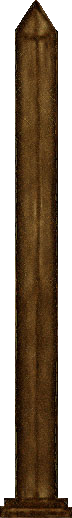
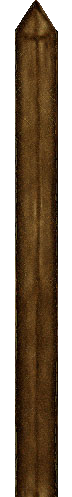
Hud bars no longer moves down.

diff --git a/src/game/utils/hud.cc b/src/game/utils/hud.cc
@@ -1,9 +1,11 @@
 #include "hud.h"
 #include "../../framework/vector2D.h"
 #include "../../framework/sprite.h"
+#include "../../framework/text.h"
 #include "../../framework/engine.h"
 #include "../../framework/animation.h"
 #include "../../framework/videomanager.h"
+#include "../../framework/modifier.h"
 #include "../scenes/world.h"
 #include "../utils/hudimagefactory.h"
 #include "constants.h"
@@ -49,9 +51,6 @@ Hud::Hud(World* world) {
     Image* number = VIDEO_MANAGER()->LoadImage("data/images/numbers2.png");
     number->set_frame_size(Vector2D(NUMBER_WIDTH, NUMBER_HEIGHT));
 
-    Image* life_bar_image_;
-    Image* mana_bar_image_;
-    Image* totem_image_;
     Image* back_image;
     Image* eye_image;
      
@@ -59,19 +58,14 @@ Hud::Hud(World* world) {
     //Criando sprites da life bar
     HudImageFactory img_fac;
 
-    life_bar_image_ = img_fac.LifeBarImage();
-    life_bar_ = new Sprite;
-    life_bar_->Initialize(life_bar_image_);
-    life_bar_->set_hotspot(Vector2D(LIFE_BAR_WIDTH/2, LIFE_BAR_HEIGHT));
-    life_bar_->set_position(Vector2D(VIDEO_X - LIFE_BAR_OFFSET_X, VIDEO_Y - LIFE_BAR_OFFSET_Y));
+    life_bar_ = new Sprite(life_modifier_ = new Modifier);
+    life_bar_->Initialize(img_fac.LifeBarImage());
+    life_bar_->set_position(VIDEO_X - LIFE_BAR_OFFSET_X - LIFE_BAR_WIDTH/2, VIDEO_Y - LIFE_BAR_OFFSET_Y);
     AddSprite(life_bar_);
     
-    
-    mana_bar_image_ = img_fac.ManaBarImage();
-    mana_bar_ = new Sprite;
-    mana_bar_->Initialize(mana_bar_image_);
-    mana_bar_->set_hotspot(Vector2D(MANA_BAR_WIDTH/2, MANA_BAR_HEIGHT));
-    mana_bar_->set_position(Vector2D(MANA_BAR_OFFSET_X , VIDEO_Y - MANA_BAR_OFFSET_Y));
+    mana_bar_ = new Sprite(mana_modifier_ = new Modifier);
+    mana_bar_->Initialize(img_fac.ManaBarImage());
+    mana_bar_->set_position(MANA_BAR_OFFSET_X - MANA_BAR_WIDTH/2, VIDEO_Y - MANA_BAR_OFFSET_Y);
     AddSprite(mana_bar_);
 
     back_image = img_fac.BackImage();
@@ -105,16 +99,32 @@ Hud::Hud(World* world) {
     AddSprite(eye);
     AddSprite(mummy_counter);
 
-    totem_image_ = img_fac.TotemImage();
-    for (int i = 0; i < 2; i++) {
-        totem_[i] = new Sprite;
-        totem_[i]->Initialize(totem_image_);
-        totem_[i]->set_hotspot(Vector2D(TOTEM_WIDTH/2, TOTEM_HEIGHT));
-        if (i == 0) totem_[i]->set_position(Vector2D(TOTEM_OFFSET_X , VIDEO_Y - TOTEM_OFFSET_Y));
-        if (i == 1) totem_[i]->set_position(Vector2D(VIDEO_X - TOTEM_OFFSET_X , VIDEO_Y - TOTEM_OFFSET_Y));
-        totem_[i]->set_zindex(-1.0f);
-        AddSprite(totem_[i]);
-    }
+    Image* totem_image_ = img_fac.TotemImage(),
+        *totem_bottom_image_ = img_fac.TotemBottomImage();
+
+    if(totem_image_ && totem_bottom_image_)
+        for (int i = 0; i < 2; i++) {
+            Sprite *totem = new Sprite;
+            totem->Initialize(totem_image_);
+            totem->set_hotspot(totem_image_->width() * 0.5f, totem_image_->height() + 0.0f);
+
+            Sprite *totem_bottom = new Sprite;
+            totem_bottom->Initialize(totem_bottom_image_);
+            totem_bottom->set_hotspot(totem_bottom_image_->width() * 0.5f, totem_bottom_image_->height());
+
+            if (i == 0) {
+                totem->set_position(TOTEM_OFFSET_X , VIDEO_Y - TOTEM_OFFSET_Y - totem_bottom_image_->height());
+                totem_bottom->set_position(TOTEM_OFFSET_X, VIDEO_Y - TOTEM_OFFSET_Y);
+            }
+            if (i == 1) {
+                totem->set_position(VIDEO_X - TOTEM_OFFSET_X , VIDEO_Y - TOTEM_OFFSET_Y - totem_bottom_image_->height());
+                totem_bottom->set_position(VIDEO_X - TOTEM_OFFSET_X, VIDEO_Y - TOTEM_OFFSET_Y);
+            }
+            totem->set_zindex(-1.0f);
+            totem_bottom->set_zindex(1.0f);
+            AddSprite(totem);
+            AddSprite(totem_bottom);
+        }
 
     for(int i = 0; i < 3; ++i) {
         enemy_counter_[i] = new Sprite;
@@ -178,25 +188,15 @@ void Hud::Update(float delta_t) {
     }
 
     if(world->hero() != NULL) {
+        // Update the Selected weapon icon
         if(world->hero()->secondary_weapon() != NULL)
             weapon_icon_ = world->hero()->secondary_weapon()->icon();
 
-        if (world->hero()->life() > 0) {
-            life_bar_->set_visible(true);
-            float new_height = ((float)world->hero()->life() * LIFE_BAR_HEIGHT) / ((float)world->hero()->max_life());
-            //if(life_bar_->image()) life_bar_->image()->set_frame_size(Vector2D(LIFE_BAR_WIDTH, new_height));
-            life_bar_->set_hotspot(Vector2D(LIFE_BAR_WIDTH/2, new_height));
-        } else {
-            life_bar_->set_visible(false);
-        }
-        if (world->hero()->mana() > 0) {
-            mana_bar_->set_visible(true);
-            float new_height = ((float)world->hero()->mana() * MANA_BAR_HEIGHT) / ((float)world->hero()->max_mana());
-            //if(mana_bar_->image()) mana_bar_->image()->set_frame_size(Vector2D(MANA_BAR_WIDTH, new_height));
-            mana_bar_->set_hotspot(Vector2D(MANA_BAR_WIDTH/2, new_height));
-        } else {
-            mana_bar_->set_visible(false);
-        }
+        // Life Bar
+        life_modifier_->set_offset(Vector2D(0.0f, (((float) world->hero()->life()) / world->hero()->max_life()) * LIFE_BAR_HEIGHT) );
+
+        // Mana Bar
+        mana_modifier_->set_offset(Vector2D(0.0f, (((float) world->hero()->mana()) / world->hero()->max_mana()) * MANA_BAR_HEIGHT) );
     }
 
     if (weapon_icon_ != NULL && icon_added[weapon_icon_] == NULL) {

diff --git a/src/game/utils/hudimagefactory.cc b/src/game/utils/hudimagefactory.cc
@@ -15,7 +15,8 @@ HudImageFactory::HudImageFactory(){
     if(mana_bar_image_) mana_bar_image_->set_frame_size(Vector2D(Constants::MANA_BAR_WIDTH, Constants::MANA_BAR_HEIGHT));
 
     totem_image_ = VIDEO_MANAGER()->LoadImage("data/images/hud_totem.png");
-    if(totem_image_) totem_image_->set_frame_size(Vector2D(72, 518));
+
+    totem_bottom_image_ = VIDEO_MANAGER()->LoadImage("data/images/hud_totem_bottom.png");
 
     eye_image_ = VIDEO_MANAGER()->LoadImage("data/images/hud_eye.png");
     if(eye_image_) eye_image_->set_frame_size(Vector2D(200, 80));
@@ -44,6 +45,9 @@ Image* HudImageFactory::ManaBarImage() {
 }
 Image* HudImageFactory::TotemImage() {
     return totem_image_;
+}
+Image* HudImageFactory::TotemBottomImage() {
+    return totem_bottom_image_;
 }
 Image* HudImageFactory::EyeImage() {
     return eye_image_;

diff --git a/src/game/utils/hudimagefactory.h b/src/game/utils/hudimagefactory.h
@@ -15,6 +15,7 @@ class HudImageFactory {
     virtual Image* LifeBarImage();
     virtual Image* ManaBarImage();
     virtual Image* TotemImage();
+    virtual Image* TotemBottomImage();
     virtual Image* BackImage();
     virtual Image* MummyCounterImage();
     virtual Image* FireballIconImage();
@@ -26,6 +27,7 @@ class HudImageFactory {
     Image* life_bar_image_;
     Image* mana_bar_image_;
     Image* totem_image_;
+    Image* totem_bottom_image_;
     Image* back_image_;
     Image* mummy_counter_image_;
     Image* fireball_icon_image_;

diff --git a/src/game/utils/hud.h b/src/game/utils/hud.h
@@ -6,7 +6,9 @@
 
 namespace framework {
 class Sprite;
+class Text;
 class Animation;
+class Modifier;
 }
 
 using framework::Sprite;
@@ -23,9 +25,9 @@ class Hud: public framework::Layer {
   private:
     Sprite* life_bar_;
     Sprite* mana_bar_;
-    Sprite* totem_[2];
     Image* weapon_icon_;
     map<Image*, Sprite*> icon_added;
+    framework::Modifier *life_modifier_, *mana_modifier_;
 
     Sprite *enemy_counter_[7], *fps_meter_[3];
     framework::uint32 enemy_counter_value_[7], fps_meter_value_[3];
